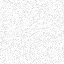
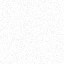
Polish overlay feel and fix live settings for 0.1.2.
Soften vignette/noise, make tearing actually fire on a schedule, hide overlay over entity GUIs, and apply mod-setting preset changes mid-game.

diff --git a/README.md b/README.md
@@ -62,13 +62,14 @@ Player choices persist in the save (`storage`) and are not synced between player
 ## Limitations
 
 - Not true framebuffer distortion or GPU post-processing
-- Overlay draws above vanilla HUD (`player.gui.screen`)
+- Overlay draws above vanilla HUD (`player.gui.screen`); there is no API to clip it to the world viewport only
+- Overlay hides while entity/inventory GUIs are open (e.g. **E**) so those stay readable
 - No OS calendar date in the Factorio API (timestamp modes use playtime / in-game day / fixed string)
 - Simulated tear bands do not shift the world image underneath
 
 ## How to test
 
-1. Symlink or copy this folder into Factorio `mods/` as `analog-remote-view_0.1.1` (or zip via `./scripts/package_mod.sh`).
+1. Symlink or copy this folder into Factorio `mods/` as `analog-remote-view_0.1.2` (or zip via `./scripts/package_mod.sh`).
 2. Enable the mod; start a game.
 3. Press **TAB** (Toggle map) to enter Remote View — overlay should appear.
 4. Press **Ctrl+Shift+C** — change presets and toggles.

diff --git a/CHANGELOG.md b/CHANGELOG.md
@@ -4,6 +4,19 @@ All notable changes to this project will be documented in this file.
 
 The format is based on [Keep a Changelog](https://keepachangelog.com/en/1.1.0/).
 
+## [0.1.2] — 2026-09-10
+
+### Fixed
+
+- Runtime mod settings (including default preset) now apply immediately in a loaded game
+- Overlay hides while entity/inventory GUIs are open so **E** menus stay readable
+
+### Changed
+
+- Softened vignette and dirty-screen noise textures and preset defaults
+- Reworked glitch scheduler so VHS/high tearing bursts are actually noticeable
+- Stronger tear/tracking band sprites; VHS defaults to frequent tearing
+
 ## [0.1.1] — 2026-09-10
 
 ### Changed

diff --git a/docs/releasing.md b/docs/releasing.md
@@ -6,7 +6,7 @@ GitHub Actions builds the Mod Portal ZIP. You do not need to run `scripts/packag
 
 1. Bump `info.json` version and add notes in `CHANGELOG.md`.
 2. Commit and push.
-3. Tag matching `info.json`: `git tag v0.1.1` then `git push origin v0.1.1`.
+3. Tag matching `info.json`: `git tag v0.1.2` then `git push origin v0.1.2`.
 4. The **Release** workflow packages the zip, checks it has no executables/scripts, and attaches it to a GitHub Release.
 5. Download that zip from the GitHub Release and upload it on the Factorio Mod Portal.
 6. If the portal description changed, paste from [mod-portal.md](mod-portal.md).
